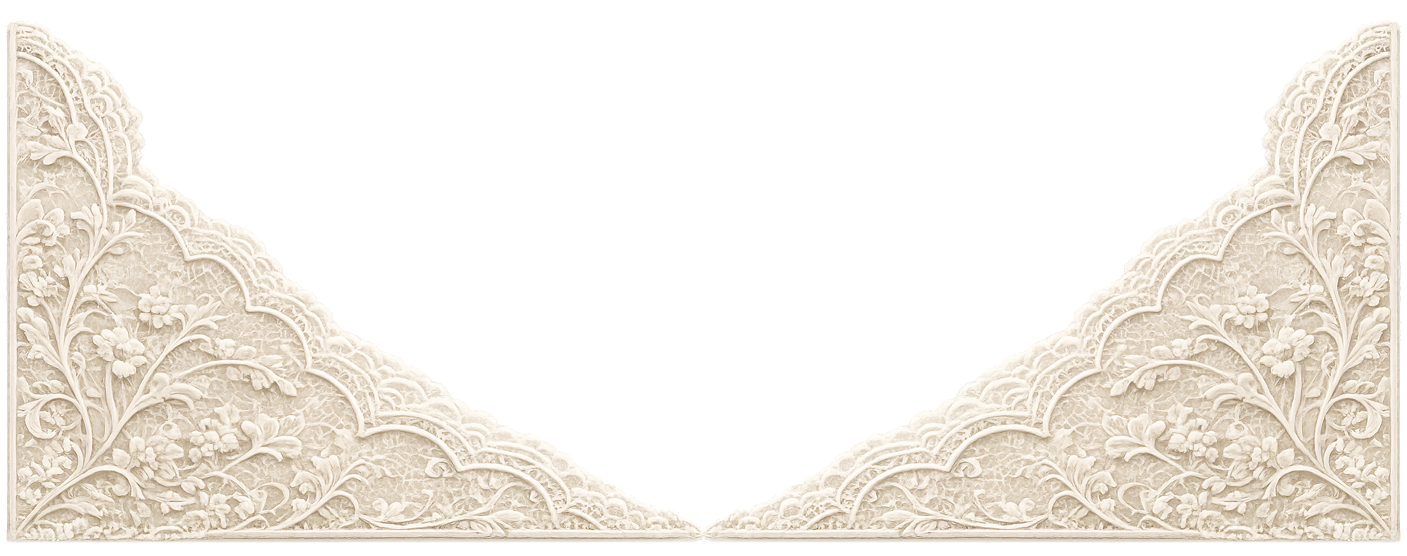
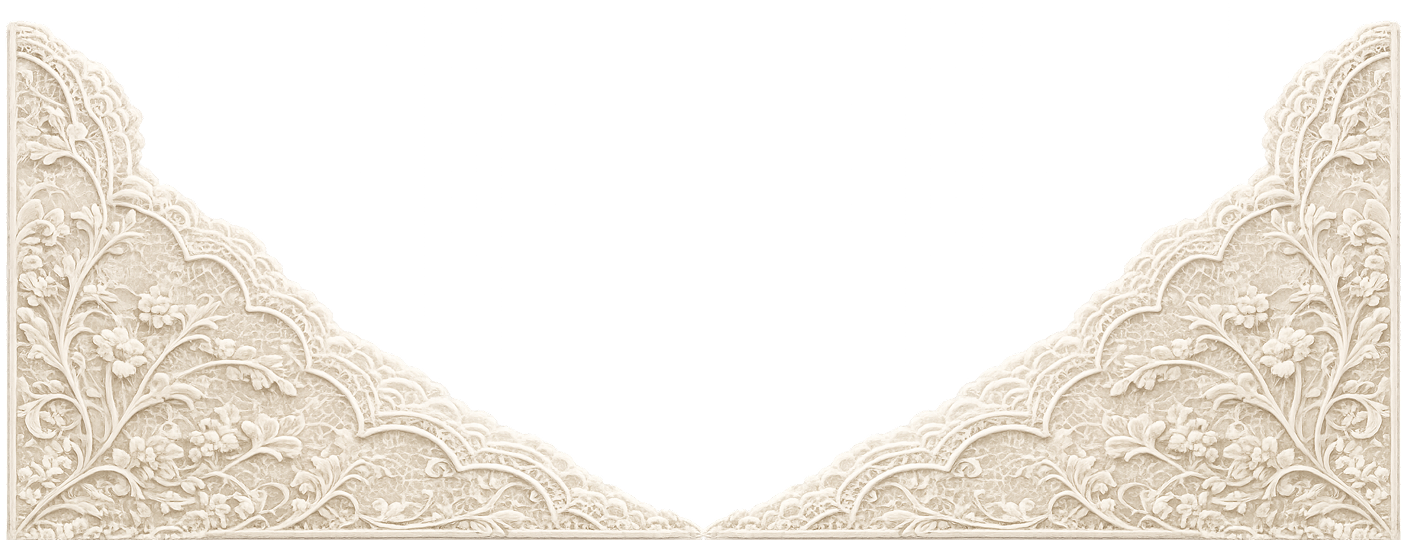
Recortar el desvanecido del borde inferior del encaje fijo
El PNG del encaje tenía un degradé de transparencia de 16px pegado a
su borde inferior, que dejaba ver el crudo de fondo detrás al estar
el marco fijado al borde real de la pantalla. Se recorta el archivo
para sacar esa franja (sin mover el dibujo del encaje) y se ajusta el
alto del marco al tamaño real de la imagen ya recortada.

Claude-Session: https://claude.ai/code/session_01Ead9PPdxYZYb8q6TNkeRya

Changed region(s): [[0.0, 0.0593, 1.0, 1.0]]

diff --git a/index.html b/index.html
@@ -56,7 +56,7 @@
         class="frame-scaler frame-scaler--fixed"
         id="lace-scaler"
         data-frame-width="1920"
-        data-frame-height="560"
+        data-frame-height="540"
       >
         <div class="frame" id="lace-frame">
           <img class="abs lace-fixed" src="images/screen2-lace-fixed.png" alt="" />

diff --git a/css/style.css b/css/style.css
@@ -706,7 +706,7 @@ body {
 
 .lace-fixed {
   left: 50%;
-  top: 4px;
+  top: 0;
   width: 1407px;
   transform: translateX(-50%);
 }
